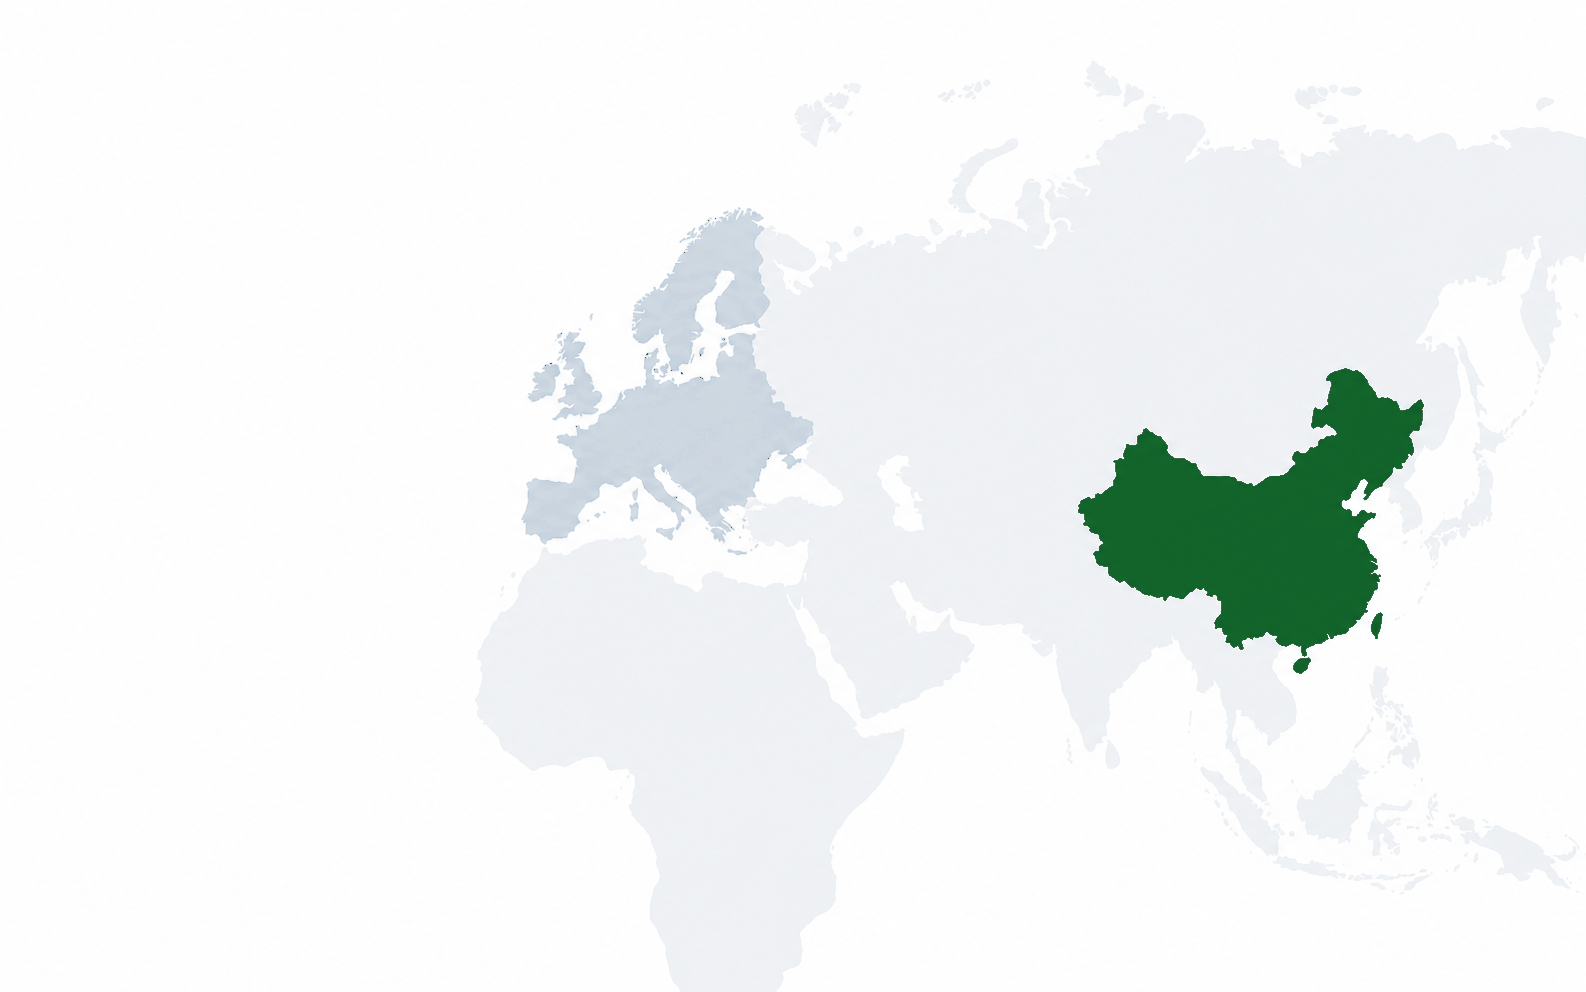
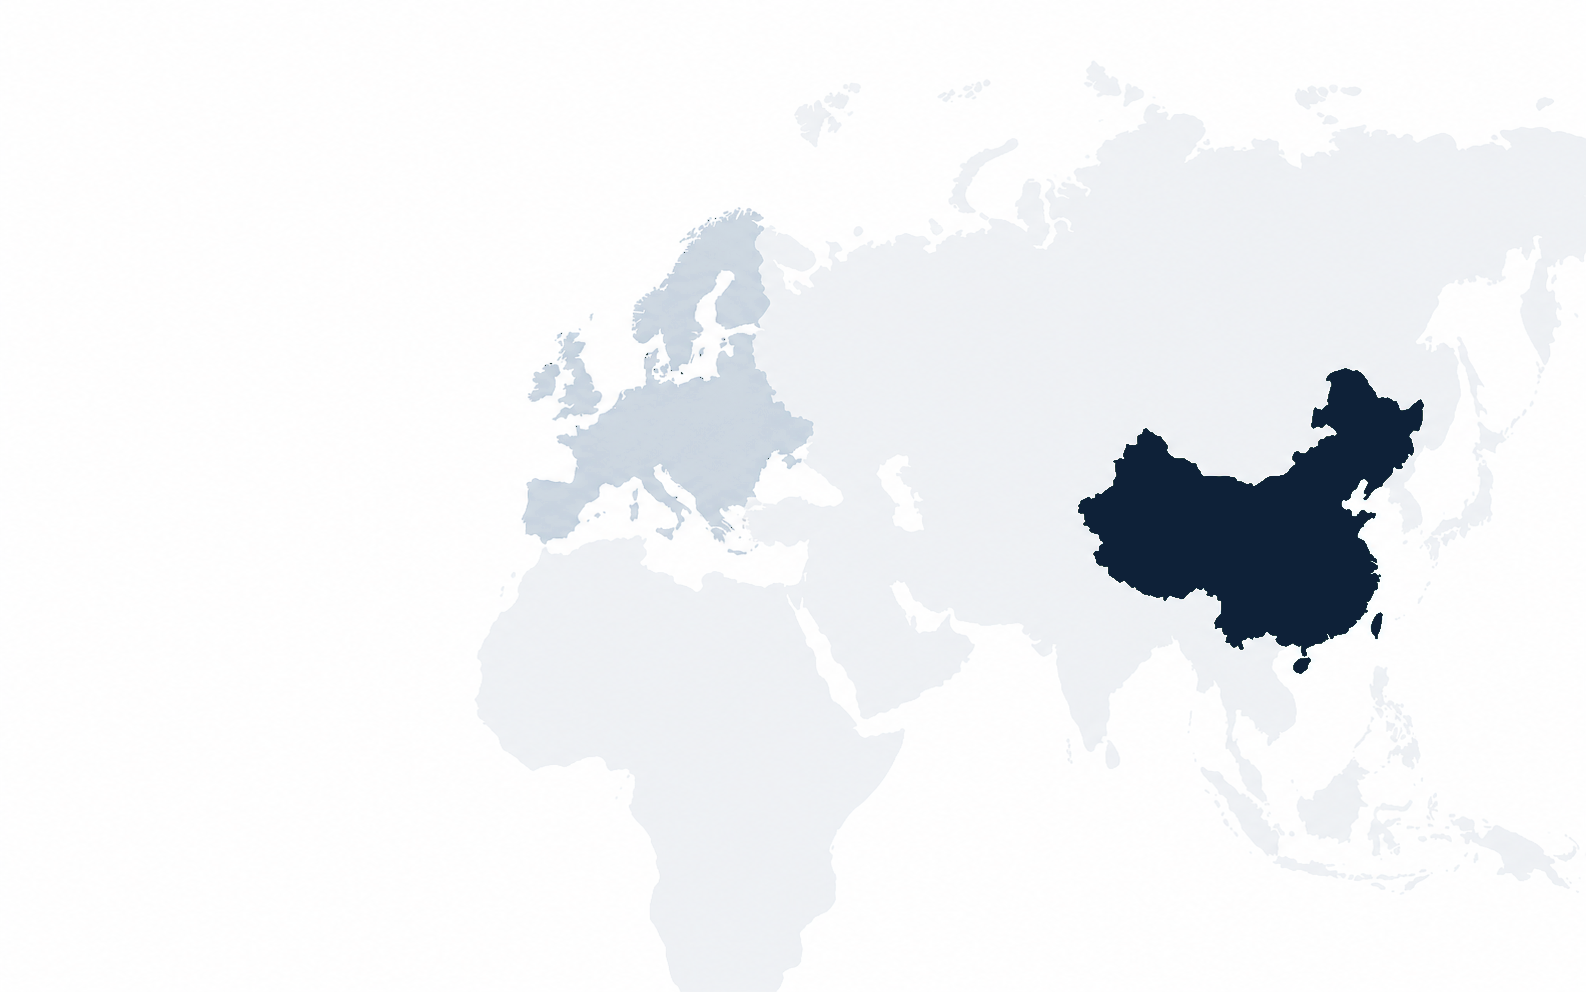
Rebrand to Midnight & Sand theme
Re-skin the whole site to deep navy + warm sand on cool ivory — a
top-tier advisory palette distinct from the prior Forest & Bone.

- globals.css: remap slate (neutral) + cyan (accent) token scales, white,
  background/foreground, selection, and the hero gradient to navy/sand
- Recolor hero map SVG (corridor, nodes, radar, legend) and the
  Europe-China map image (China now navy)
- Navy Meridian logo + ink-navy favicon set; navy footer
- Recolor the project-assessment email template

Changed region(s): [[0.6797, 0.375, 0.896, 0.6875]]

diff --git a/src/components/home-hero.tsx b/src/components/home-hero.tsx
@@ -9,7 +9,7 @@ function CommercializationMap() {
   return (
     <div className="hero-visual relative">
       <div
-        className="hero-aurora pointer-events-none absolute -inset-6 -z-10 rounded-[3rem] bg-[radial-gradient(60%_60%_at_72%_38%,rgba(176,141,67,0.16),transparent_70%)] blur-2xl"
+        className="hero-aurora pointer-events-none absolute -inset-6 -z-10 rounded-[3rem] bg-[radial-gradient(60%_60%_at_72%_38%,rgba(196,166,106,0.16),transparent_70%)] blur-2xl"
         aria-hidden="true"
       />
       <div className="relative overflow-hidden rounded-2xl border border-slate-200 bg-white shadow-xl shadow-slate-900/5">
@@ -31,23 +31,23 @@ function CommercializationMap() {
           >
             <defs>
               <linearGradient id="corridorGrad" x1="0" y1="0" x2="1" y2="0">
-                <stop offset="0" stopColor="#1a5e37" />
-                <stop offset="0.5" stopColor="#5f8242" />
-                <stop offset="1" stopColor="#b08d43" />
+                <stop offset="0" stopColor="#1e3a5f" />
+                <stop offset="0.5" stopColor="#5a6a7c" />
+                <stop offset="1" stopColor="#c4a66a" />
               </linearGradient>
             </defs>
 
             {/* Market radar around China */}
-            <circle cx="1260" cy="512" r="118" fill="none" stroke="#9c7d39" strokeOpacity="0.08" />
-            <circle cx="1260" cy="512" r="80" fill="none" stroke="#9c7d39" strokeOpacity="0.12" />
-            <circle className="radar-ring" cx="1260" cy="512" r="70" fill="none" stroke="#b08d43" strokeWidth="2.5" />
+            <circle cx="1260" cy="512" r="118" fill="none" stroke="#ad8f53" strokeOpacity="0.08" />
+            <circle cx="1260" cy="512" r="80" fill="none" stroke="#ad8f53" strokeOpacity="0.12" />
+            <circle className="radar-ring" cx="1260" cy="512" r="70" fill="none" stroke="#c4a66a" strokeWidth="2.5" />
             <circle
               className="radar-ring"
               cx="1260"
               cy="512"
               r="70"
               fill="none"
-              stroke="#b08d43"
+              stroke="#c4a66a"
               strokeWidth="2.5"
               style={{ animationDelay: "1.9s" }}
             />
@@ -66,33 +66,33 @@ function CommercializationMap() {
 
             {/* Bi-directional traveling pulses */}
             <g className="route-motion-dot">
-              <circle r="18" fill="#b08d43" opacity="0.18" />
-              <circle r="7" fill="#1a5e37" />
+              <circle r="18" fill="#c4a66a" opacity="0.18" />
+              <circle r="7" fill="#1e3a5f" />
               <animateMotion dur="5.4s" repeatCount="indefinite" path={routeForward} />
             </g>
             <g className="route-motion-dot">
-              <circle r="15" fill="#c8a85f" opacity="0.16" />
-              <circle r="6" fill="#b08d43" />
+              <circle r="15" fill="#d2bd86" opacity="0.16" />
+              <circle r="6" fill="#c4a66a" />
               <animateMotion dur="6.6s" begin="1.6s" repeatCount="indefinite" path={routeReverse} />
             </g>
 
             {/* Endpoint nodes */}
             <g className="node-pulse node-pulse-delay">
               <circle cx="620" cy="476" r="22" fill="#ffffff" />
-              <circle cx="620" cy="476" r="12" fill="#103a20" />
+              <circle cx="620" cy="476" r="12" fill="#0e2138" />
               <circle cx="620" cy="476" r="5" fill="#ffffff" />
             </g>
             <g className="node-pulse">
               <circle cx="1260" cy="512" r="22" fill="#ffffff" />
-              <circle cx="1260" cy="512" r="12" fill="#103a20" />
+              <circle cx="1260" cy="512" r="12" fill="#0e2138" />
               <circle cx="1260" cy="512" r="5" fill="#ffffff" />
             </g>
 
             {/* Labels */}
-            <text x="620" y="430" textAnchor="middle" fontSize="26" fontWeight={600} letterSpacing="0.16em" fill="#3c4339">
+            <text x="620" y="430" textAnchor="middle" fontSize="26" fontWeight={600} letterSpacing="0.16em" fill="#2f3a4a">
               EUROPE
             </text>
-            <text x="1260" y="466" textAnchor="middle" fontSize="26" fontWeight={600} letterSpacing="0.16em" fill="#3c4339">
+            <text x="1260" y="466" textAnchor="middle" fontSize="26" fontWeight={600} letterSpacing="0.16em" fill="#2f3a4a">
               CHINA
             </text>
           </svg>
@@ -104,7 +104,7 @@ function CommercializationMap() {
             Europe → China market entry
           </span>
           <span className="inline-flex items-center gap-1.5">
-            <span className="h-1.5 w-1.5 rounded-full bg-[#1a5e37]" />
+            <span className="h-1.5 w-1.5 rounded-full bg-[#1e3a5f]" />
             China → overseas expansion
           </span>
         </div>

diff --git a/src/app/globals.css b/src/app/globals.css
@@ -1,46 +1,46 @@
 @import "tailwindcss";
 
 :root {
-  --background: #f1ede3; /* bone */
-  --foreground: #15241c; /* ink */
+  --background: #f3f2ee; /* ivory */
+  --foreground: #14202e; /* navy ink */
 }
 
-/* ===== Brand: Forest & Bone ========================================
-   Deep forest green + antique gold on warm bone.
+/* ===== Brand: Midnight & Sand ======================================
+   Deep navy + warm sand on cool ivory.
    The slate (neutral) and cyan (accent) scales and `white` are remapped
    at the token level, so existing utility classes across the whole site
    adopt the brand automatically. */
 @theme {
-  --color-forest: #103a20;
-  --color-forest-600: #1a5e37;
-  --color-gold: #b08d43;
-  --color-bone: #f1ede3;
-  --color-ink: #15241c;
+  --color-navy: #0e2138;
+  --color-navy-600: #1e3a5f;
+  --color-sand: #c4a66a;
+  --color-ivory: #f3f2ee;
+  --color-ink: #14202e;
 
-  --color-white: #fcfaf4; /* warm surface instead of pure white */
+  --color-white: #fcfcfa; /* cool warm surface instead of pure white */
 
-  --color-slate-50: #f4f1e9;
-  --color-slate-100: #ece7da;
-  --color-slate-200: #e1dbcc;
-  --color-slate-300: #d0c8b6;
-  --color-slate-400: #9ba093;
-  --color-slate-500: #767b6e;
-  --color-slate-600: #515a4f;
-  --color-slate-700: #3c4339;
-  --color-slate-800: #2a3128;
-  --color-slate-900: #1d271f;
-  --color-slate-950: #15241c;
+  --color-slate-50: #f5f4f0;
+  --color-slate-100: #ebeae4;
+  --color-slate-200: #dddbd2;
+  --color-slate-300: #c7c5ba;
+  --color-slate-400: #989aa1;
+  --color-slate-500: #6b7280;
+  --color-slate-600: #495363;
+  --color-slate-700: #344052;
+  --color-slate-800: #232f41;
+  --color-slate-900: #16222f;
+  --color-slate-950: #0e2138;
 
-  --color-cyan-50: #f3ecd9;
-  --color-cyan-100: #ebe0c2;
-  --color-cyan-200: #ddca97;
-  --color-cyan-300: #d0b87a;
-  --color-cyan-400: #c2a661;
-  --color-cyan-500: #b08d43;
-  --color-cyan-600: #9c7d39;
-  --color-cyan-700: #876b2f;
-  --color-cyan-800: #6f5726;
-  --color-cyan-900: #5b471f;
+  --color-cyan-50: #f6f0e3;
+  --color-cyan-100: #ece0c7;
+  --color-cyan-200: #ddca9d;
+  --color-cyan-300: #d1ba83;
+  --color-cyan-400: #c9ab70;
+  --color-cyan-500: #c4a66a;
+  --color-cyan-600: #ad8f53;
+  --color-cyan-700: #8a6f3c;
+  --color-cyan-800: #725c34;
+  --color-cyan-900: #5d4b2c;
 }
 
 @theme inline {
@@ -57,8 +57,8 @@ body {
 }
 
 ::selection {
-  background: #e6d3a3;
-  color: #15241c;
+  background: #e3d3ab;
+  color: #14202e;
 }
 
 a {
@@ -72,7 +72,7 @@ a {
 
 /* Gradient accent for headline phrase (Tailwind-version independent) */
 .text-gradient {
-  background: linear-gradient(95deg, #1c5e37 0%, #7e8a3f 55%, #b88f3f 100%);
+  background: linear-gradient(95deg, #21456e 0%, #7a7053 55%, #c2a36a 100%);
   -webkit-background-clip: text;
   background-clip: text;
   color: transparent;

diff --git a/src/lib/project-assessment-email.ts b/src/lib/project-assessment-email.ts
@@ -20,7 +20,7 @@ function row(label: string, value?: string) {
 }
 
 function section(title: string, rows: string) {
-  return `<h2 style="margin:28px 0 10px;color:#15241c;font-size:18px">${escapeHtml(title)}</h2>
+  return `<h2 style="margin:28px 0 10px;color:#14202e;font-size:18px">${escapeHtml(title)}</h2>
     <table role="presentation" style="width:100%;border-collapse:collapse;border:1px solid #e2e8f0">${rows}</table>`;
 }
 
@@ -41,9 +41,9 @@ export function buildProjectAssessmentEmail(submission: ProjectAssessmentSubmiss
   <html>
     <body style="margin:0;background:#f8fafc;font-family:Arial,sans-serif">
       <div style="max-width:720px;margin:0 auto;padding:32px 20px">
-        <div style="border-top:4px solid #103a20;background:#ffffff;padding:28px;border-radius:8px">
-          <p style="margin:0;color:#b08d43;font-size:12px;font-weight:700;letter-spacing:.12em;text-transform:uppercase">Haoyi Advisory</p>
-          <h1 style="margin:10px 0 8px;color:#15241c;font-size:26px">New project assessment</h1>
+        <div style="border-top:4px solid #0e2138;background:#ffffff;padding:28px;border-radius:8px">
+          <p style="margin:0;color:#a8893f;font-size:12px;font-weight:700;letter-spacing:.12em;text-transform:uppercase">Haoyi Advisory</p>
+          <h1 style="margin:10px 0 8px;color:#14202e;font-size:26px">New project assessment</h1>
           <p style="margin:0;color:#64748b;font-size:14px">Submission ID: ${escapeHtml(submission.submissionId)}</p>
 
           ${section(

diff --git a/src/components/layout.tsx b/src/components/layout.tsx
@@ -8,17 +8,17 @@ type IconType = ComponentType<{ className?: string; strokeWidth?: number }>;
 
 export function SiteFooter() {
   return (
-    <footer className="border-t border-slate-200 bg-[#103a20] text-white">
+    <footer className="border-t border-slate-200 bg-[#0e2138] text-white">
       <div className="mx-auto grid max-w-7xl gap-8 px-5 py-10 sm:px-6 lg:grid-cols-[1.4fr_1fr] lg:px-8">
         <div>
           <div className="flex items-center gap-2.5">
             <svg viewBox="0 0 40 40" className="h-8 w-8 flex-none" aria-hidden="true">
-              <g fill="none" stroke="#f1ede3" strokeWidth="2">
+              <g fill="none" stroke="#f3f2ee" strokeWidth="2">
                 <circle cx="20" cy="20" r="15" />
                 <ellipse cx="20" cy="20" rx="6.3" ry="15" />
                 <circle cx="13.1" cy="13.7" r="2.7" strokeWidth="1.6" />
               </g>
-              <circle cx="27.5" cy="24.5" r="2.5" fill="#f1ede3" />
+              <circle cx="27.5" cy="24.5" r="2.5" fill="#f3f2ee" />
             </svg>
             <p className="text-lg font-semibold">Haoyi Advisory</p>
           </div>

diff --git a/src/components/site-header.tsx b/src/components/site-header.tsx
@@ -14,12 +14,12 @@ export function SiteHeader() {
         <div className="flex min-h-18 items-center justify-between gap-5">
           <Link href="/" className="flex min-w-0 items-center gap-3" aria-label="Haoyi Advisory home">
             <svg viewBox="0 0 40 40" className="h-10 w-10 flex-none" aria-hidden="true">
-              <g fill="none" stroke="#15241c" strokeWidth="2">
+              <g fill="none" stroke="#14202e" strokeWidth="2">
                 <circle cx="20" cy="20" r="15" />
                 <ellipse cx="20" cy="20" rx="6.3" ry="15" />
                 <circle cx="13.1" cy="13.7" r="2.7" strokeWidth="1.6" />
               </g>
-              <circle cx="27.5" cy="24.5" r="2.5" fill="#15241c" />
+              <circle cx="27.5" cy="24.5" r="2.5" fill="#14202e" />
             </svg>
             <span className="min-w-0">
               <span className="block text-base font-semibold tracking-tight text-slate-950">
